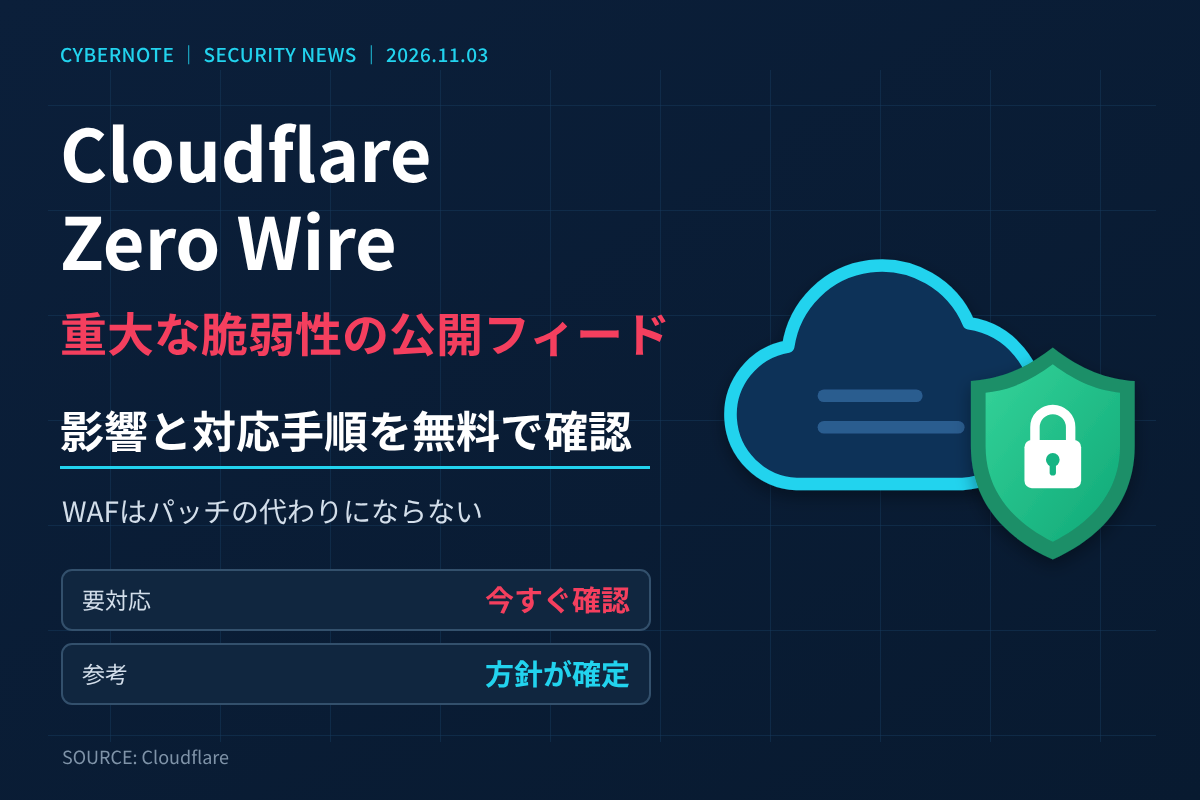
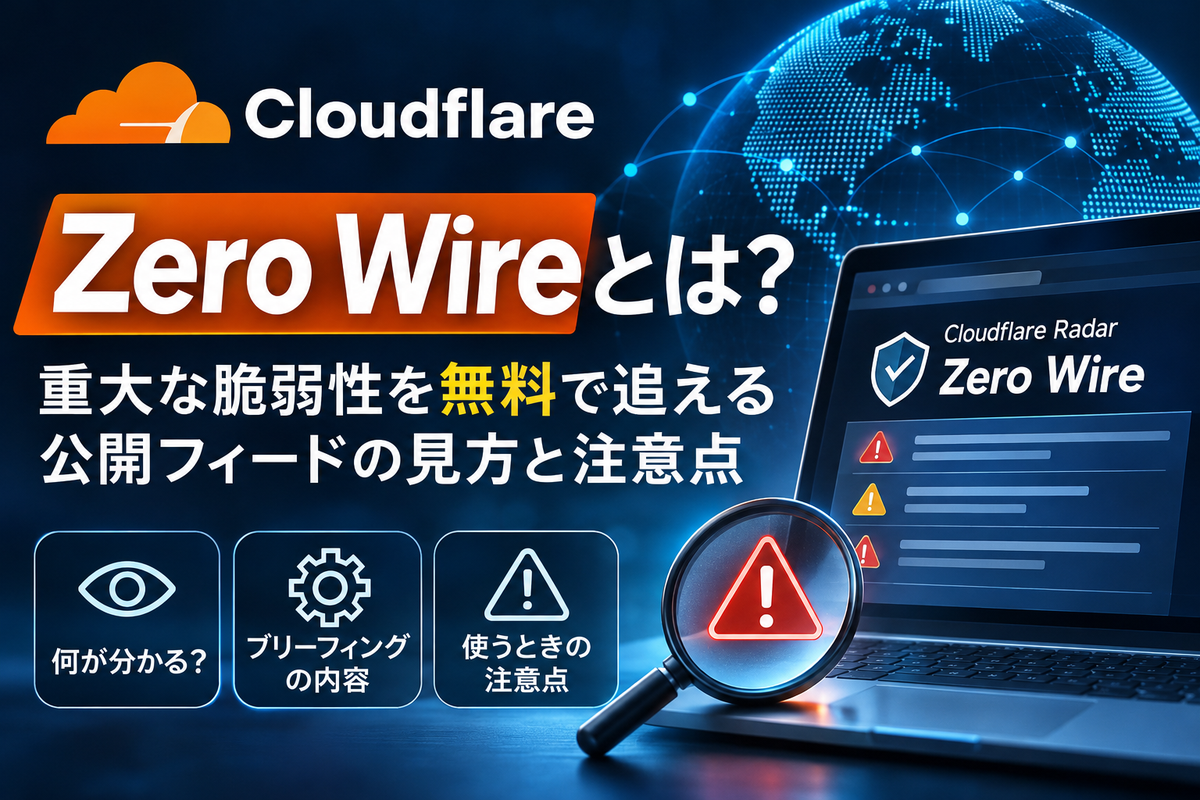
Use user-supplied eyecatch for Zero Wire article; treat Zero Wire as a severity yardstick
- Replace the code-drawn eyecatch with the image supplied by the site owner
  (resized to 1200x800 via prepare_eyecatch.py) and drop its render spec
- Reword scheduled-task rules: Zero Wire listing is used like KEV as a signal of
  high importance, not as a relaxation of criteria; facts still come from primary sources

Claude-Session: https://claude.ai/code/session_012Shh4kDC9DGu2sc5b7RJje

diff --git a/projects/cybernote-security-news/prompts/claude_scheduled_task.md b/projects/cybernote-security-news/prompts/claude_scheduled_task.md
@@ -62,8 +62,8 @@ Cloudflare Radarの脆弱性情報フィード Zero Wire（https://radar.cloudfl
 1. 毎回、候補収集の最初に新着を確認する。radar.cloudflare.com は WebFetch がボット対策で拒否されるため、WebSearch に `allowed_domains: ["radar.cloudflare.com"]` を指定して「Zero Wire」「Zero Wire Needs attention」などで検索し、一覧ページ（`/security/zero-wire`）と個別ページ（`/security/zero-wire/<名前>`）を拾う。WebFetch は一覧ページに1回だけ試し、拒否されたら再試行しない。補助として、Cloudflare公式ブログ・@CloudflareRadar の告知もWebSearchで確認する
 2. 拾ったブリーフィングを `data/zero_wire_tracking.csv` と、ブリーフィング名・URL・CVE番号で突き合わせる。台帳にないものだけを「新着」とする。台帳の「初期登録」行（監視開始時点で掲載済みだったもの）は新着ではないため、自動記事化しない
 3. 新着は、候補CSVに備考「Zero Wire新着」として追記し、台帳にも行を末尾追記する（状態=未処理）。台帳の既存行は、自分が追記した行の「状態」「CyberNote記事No」「備考」だけ更新してよい
-4. 採用条件の特例: Zero Wire新着は、自動採用の条件のうち「KEV掲載またはCVSS 8.0以上」と「日本で普及した製品」を問わない（Cloudflareが重大な脆弱性として選別済みのため）。CVEがない事象（証明書の侵害など）も対象にし、その場合は脆弱性以外の分類で書く。ただし次は通常どおり守る
-   - Zero Wireは候補の入口であり、根拠ではない。CVE番号、対象製品・版、修正版、CVSS、悪用状況は、CVEレコード、NVD、開発元のアドバイザリ、CISA、JVN、JPCERT/CC等の一次情報で確認する。確認できない項目は記事に「未確認」と書き、ブリーフィングの記述だけを根拠に断定しない
+4. 重要度の物差しとしての扱い: Zero Wireに載ること自体を、KEV掲載と並ぶ「重要度が高い」ことの判断基準として使う。Cloudflareは悪用の兆候、影響範囲、攻撃の容易さを見て掲載を選んでいるため、Zero Wire新着は「KEV掲載またはCVSS 8.0以上」「日本で普及した製品」を満たしていなくても採用条件を満たすものとして扱う。CVEがない事象（証明書の侵害など）も対象にし、その場合は脆弱性以外の分類で書く。ただし、使うのは「重要度の判断」だけで、事実の根拠には使わない。次は通常どおり守る
+   - 記事に書く事実の根拠は一次情報にする。CVE番号、対象製品・版、修正版、CVSS、悪用状況は、CVEレコード、NVD、開発元のアドバイザリ、CISA、JVN、JPCERT/CC等の一次情報で確認する。確認できない項目は記事に「未確認」と書き、ブリーフィングの記述だけを根拠に断定しない
    - 主要な事実（対象製品と修正方法）を一次情報で確認できない場合は記事化を見送り、台帳の状態を「見送り」、備考に理由を書く
    - 重複検証（2.の `articles/` の grep と WordPress側の検索）は通常どおり行う。既存記事があれば新規記事にせず、台帳の状態を「記事化済み」（記事Noを記入）にし、Zero Wireに載った事実や新しい対応情報があれば「追記候補」として報告する
    - 鮮度は、CVEの公表日ではなく台帳に新着として登録した日から14日以内で判定する
